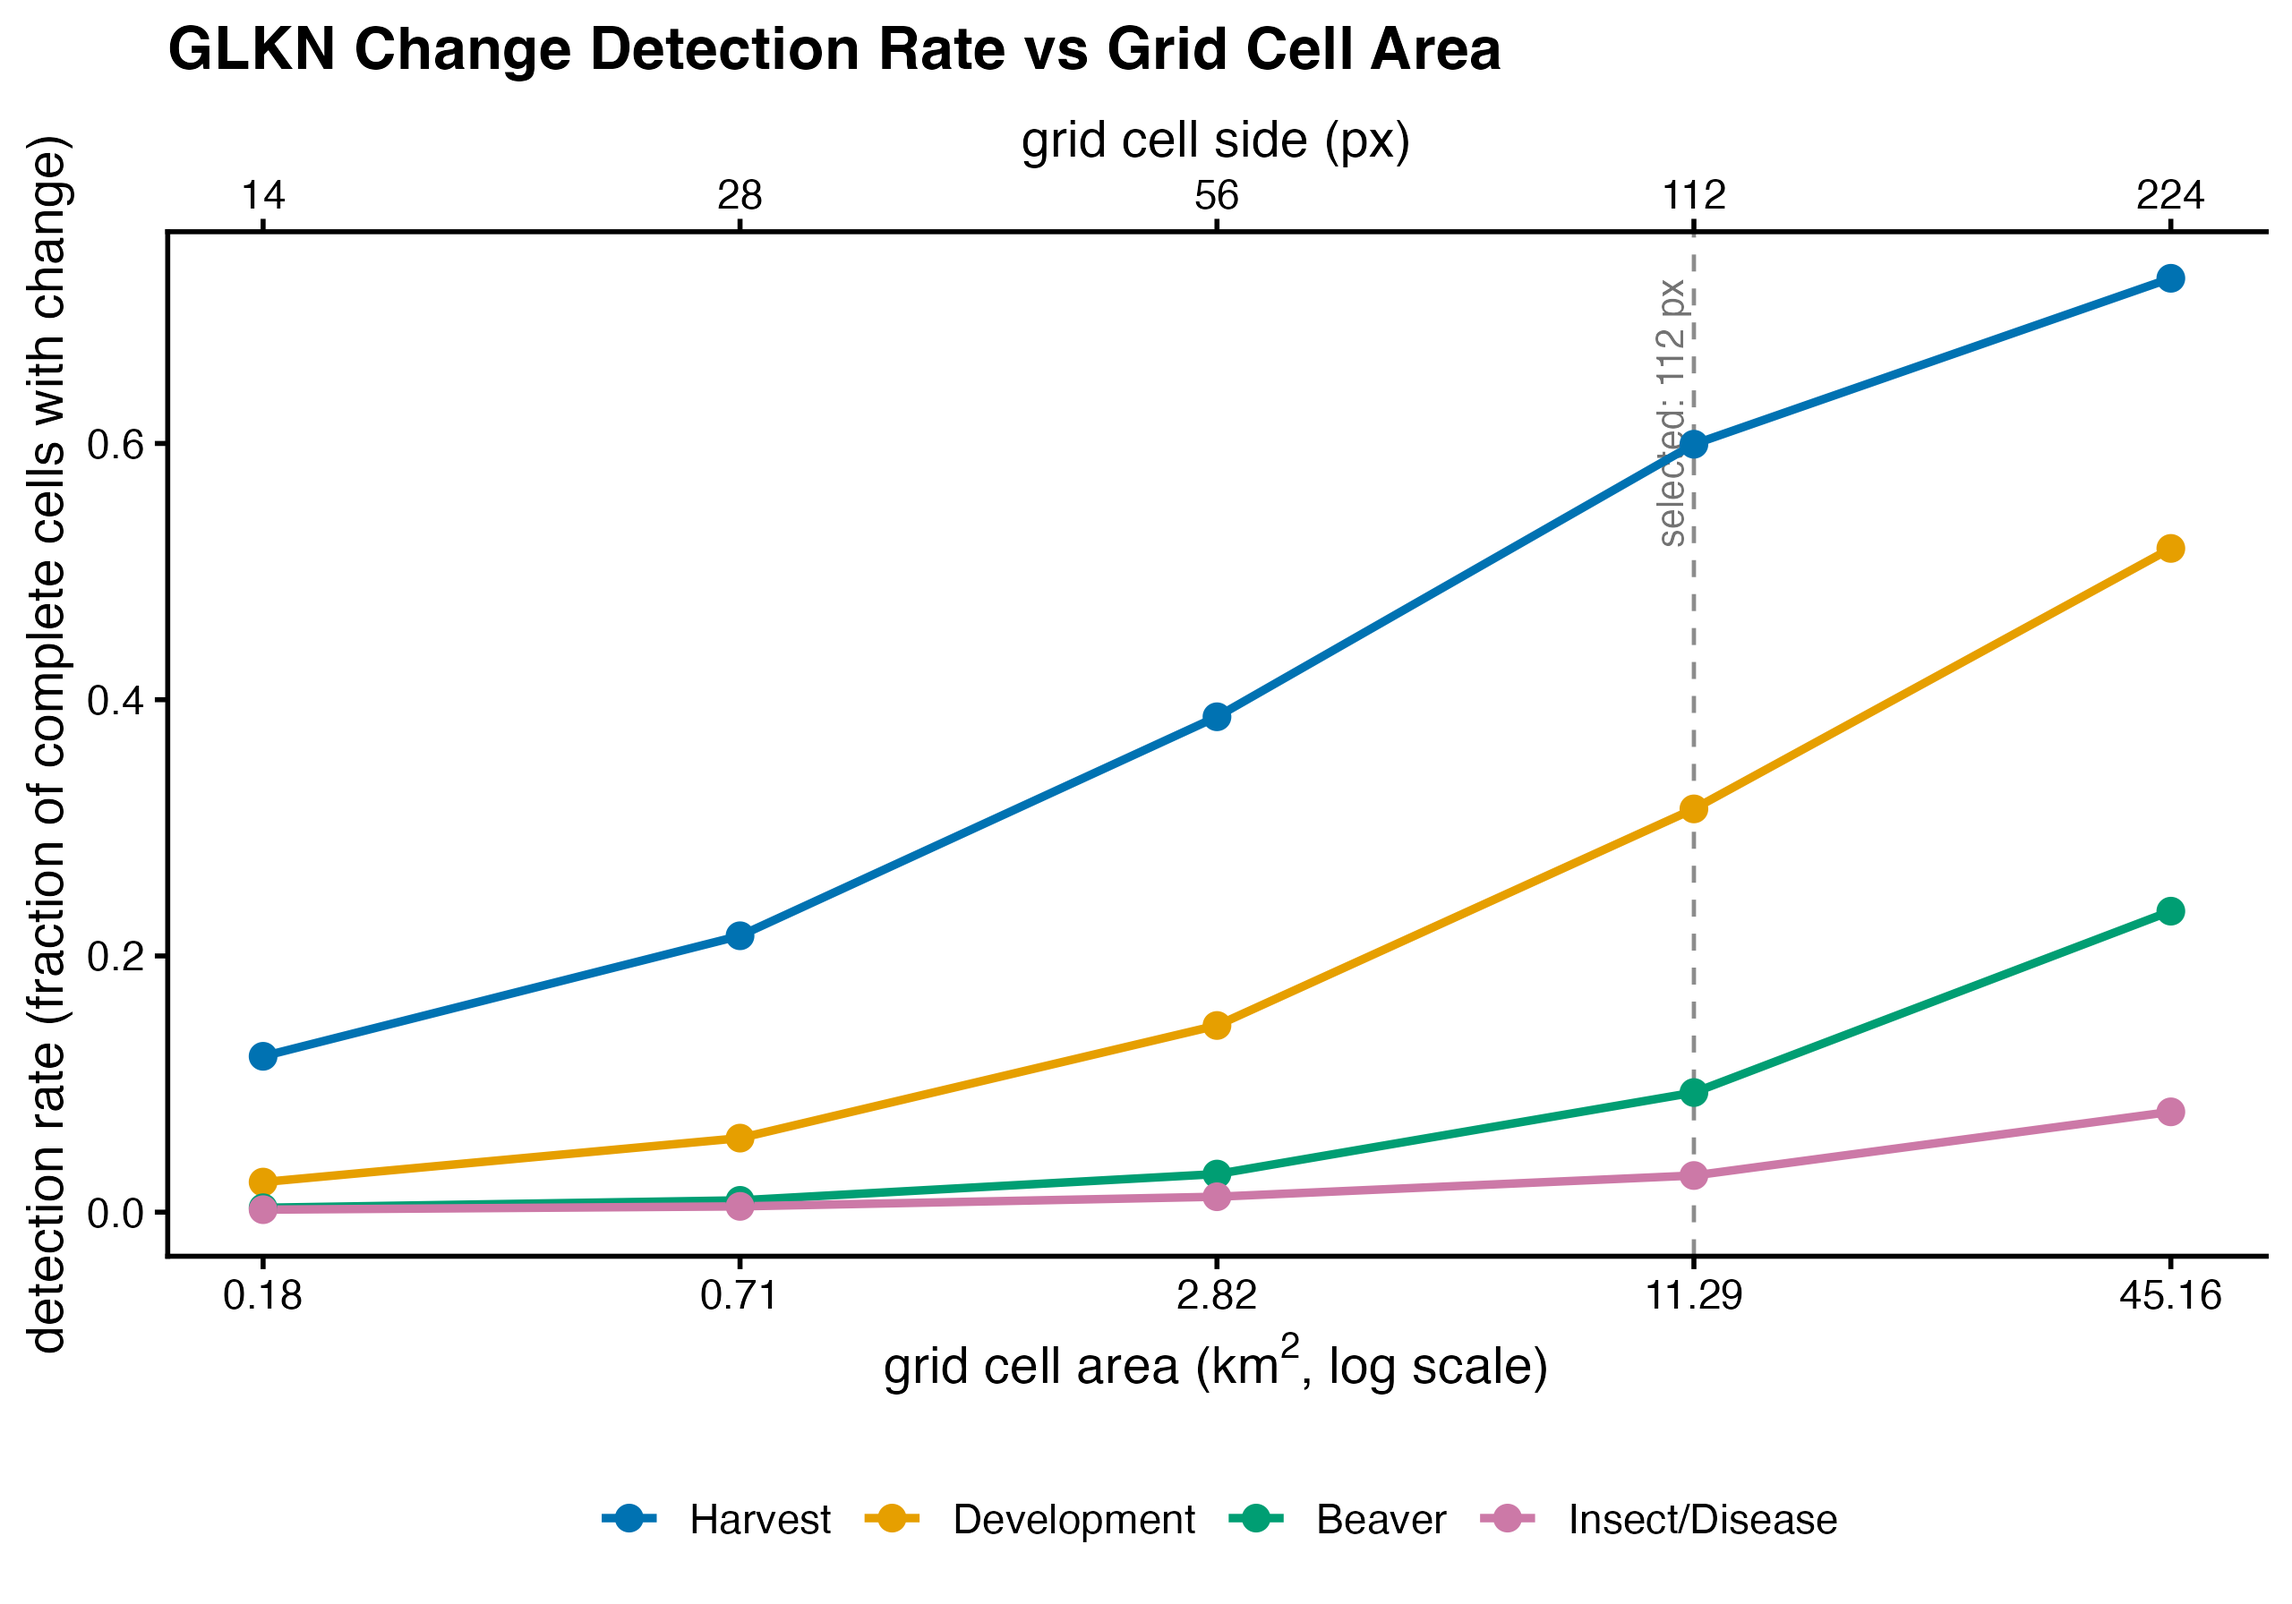
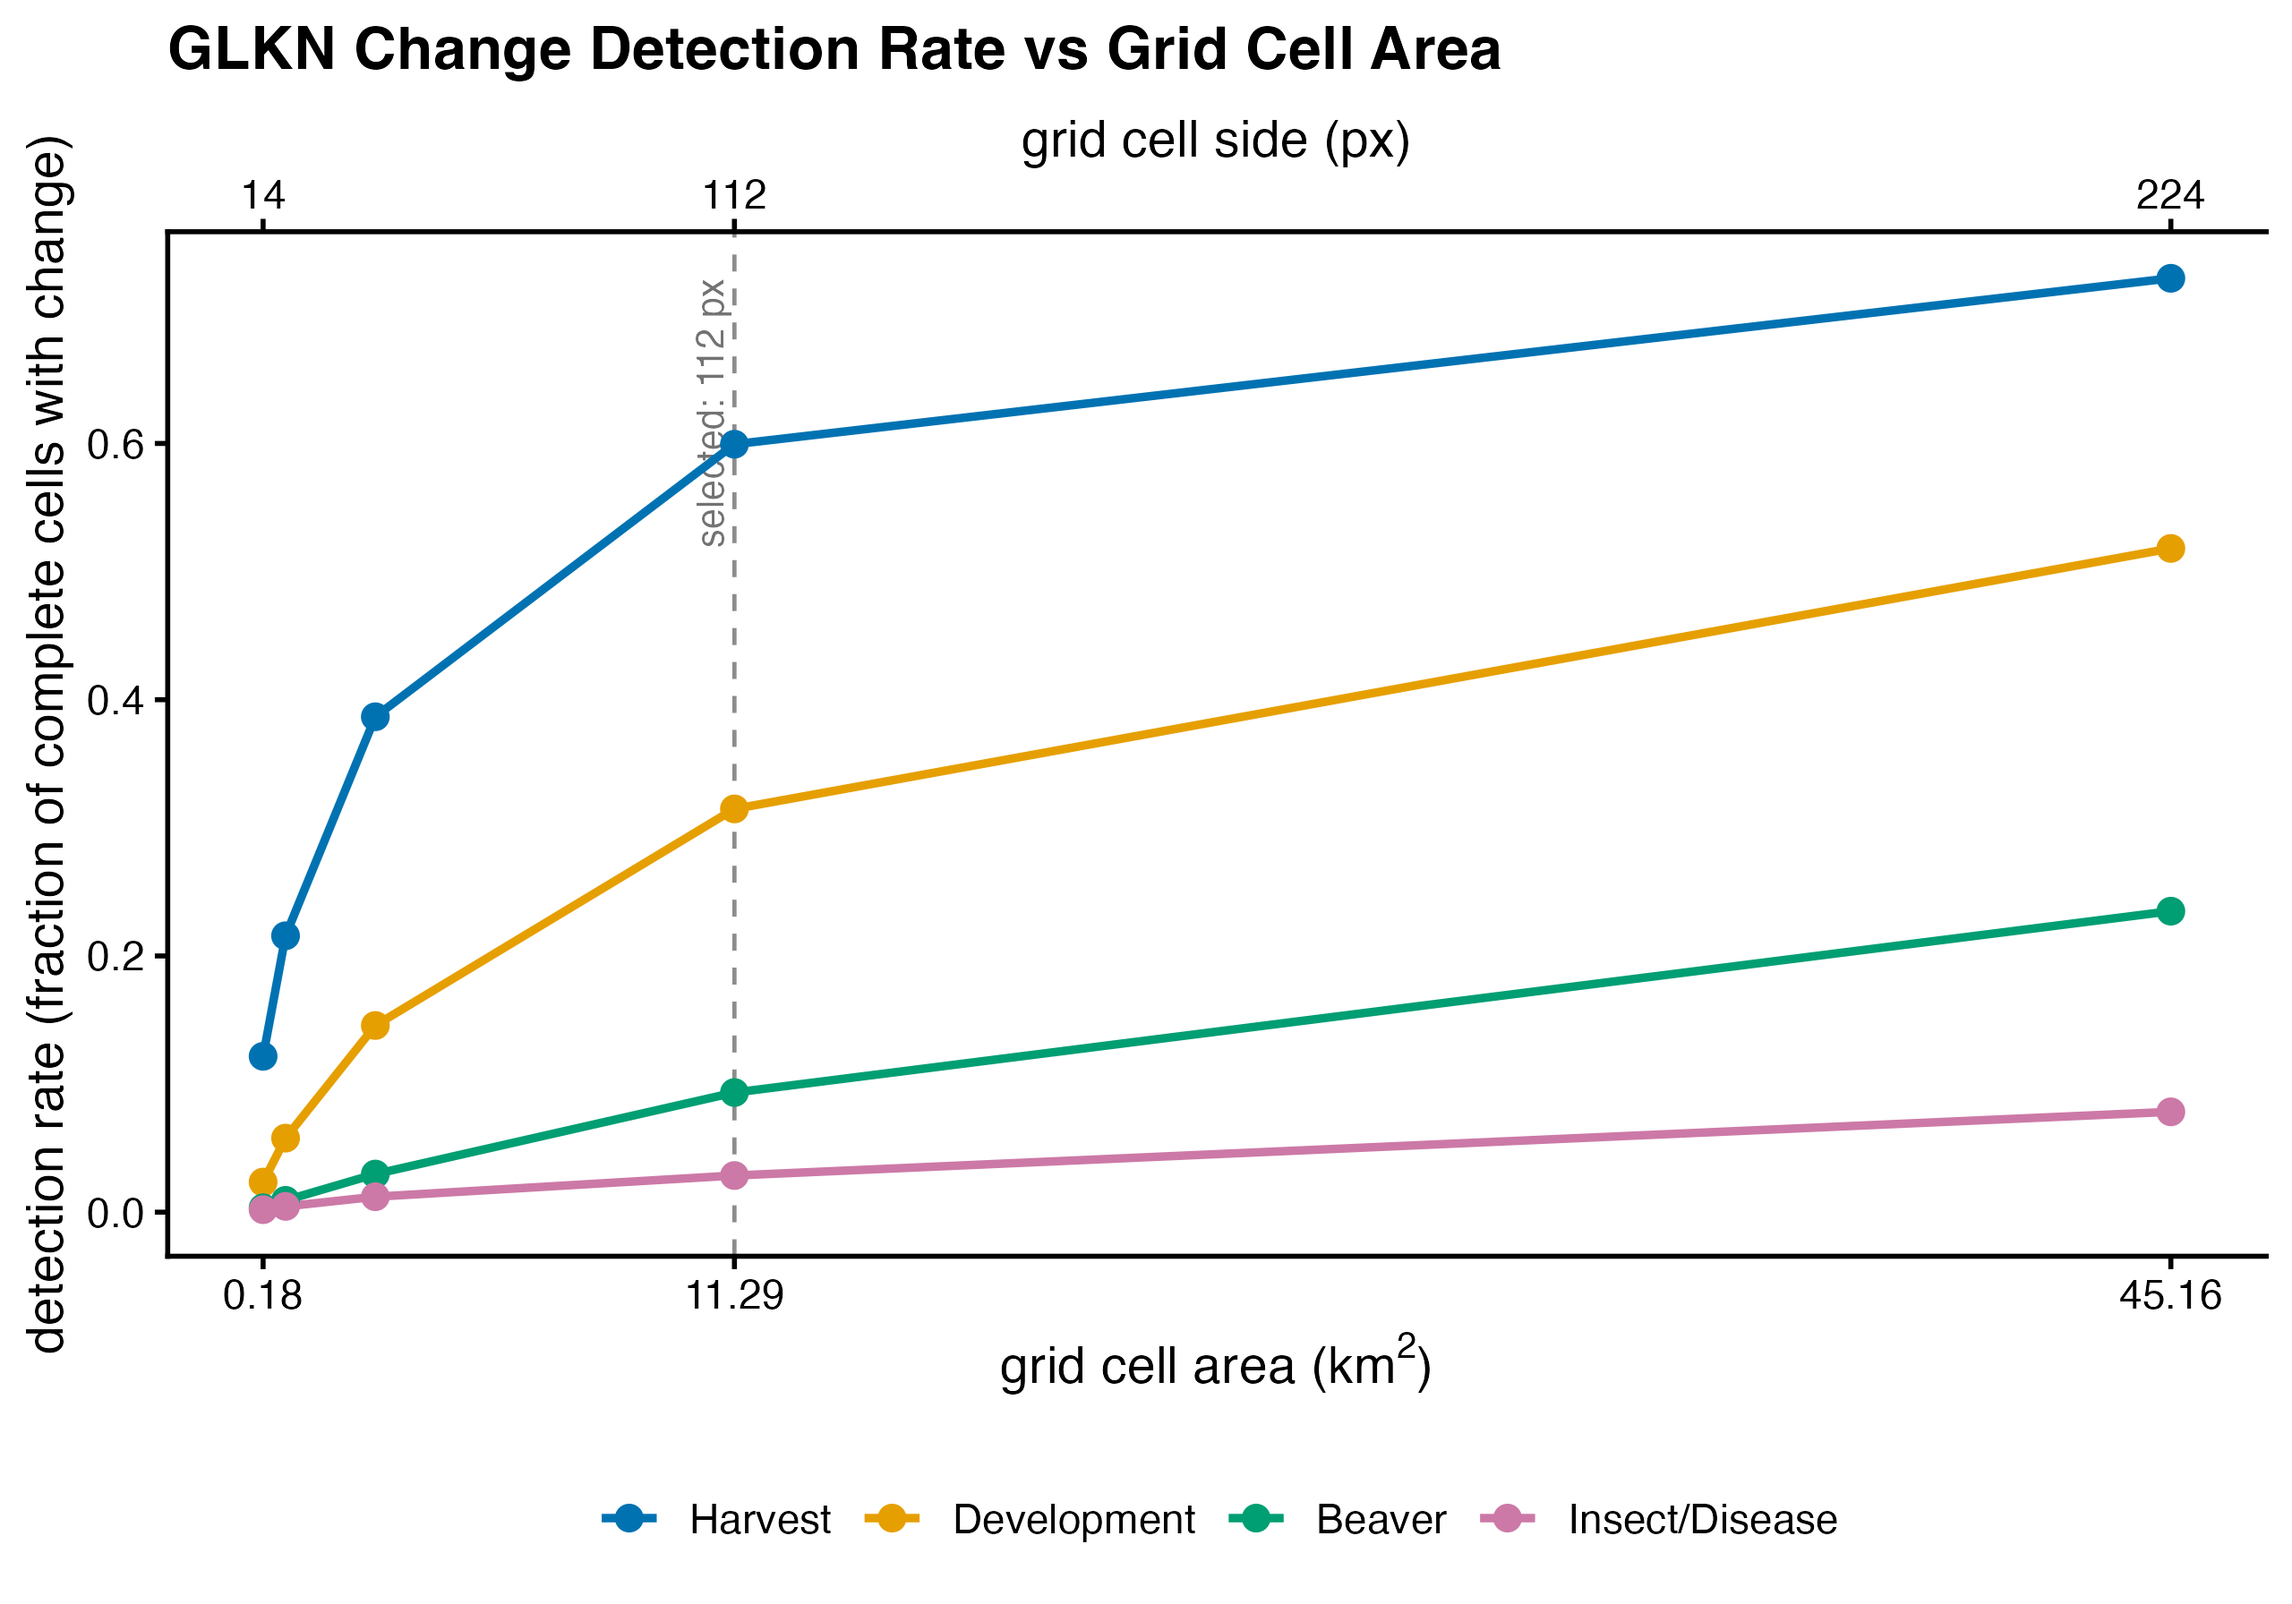
Use the linear-axis detection-rate figures for Figure 3.2a and 3.2b
Repoint Figure 3.2 panels a and b to the linear-axis versions
(change_detection_rate_vs_cell_area_{combined,by_agent}_linear) instead of the
log-scale versions, and note the linear axis in the captions and report.

diff --git a/scripts/build_chapter3_named_figures.py b/scripts/build_chapter3_named_figures.py
@@ -50,8 +50,9 @@ copy(f"{AB}/design_effect_vs_W.png", "figure_3_8_design_effect_vs_W.png")
 copy(f"{AB}/class_absence.png", "figure_3_9_class_absence.png")
 
 # ---- figure 3.2: two-panel, flagged for manual assembly (copy panels a and b) ----
-copy_png_pdf(f"{C3}/change_detection_rate_vs_cell_area_combined", "figure_3_2a_detection_rate_combined")
-copy_png_pdf(f"{C3}/change_detection_rate_vs_cell_area_by_agent", "figure_3_2b_detection_rate_by_agent")
+# use the linear-axis versions, not the log-scale ones
+copy_png_pdf(f"{C3}/change_detection_rate_vs_cell_area_combined_linear", "figure_3_2a_detection_rate_combined")
+copy_png_pdf(f"{C3}/change_detection_rate_vs_cell_area_by_agent_linear", "figure_3_2b_detection_rate_by_agent")
 
 # ---- figure 3.4: three-panel, flagged for manual assembly (copy panels a, b, and c) ----
 copy(f"{IA}/class_disagreement_top.png", "figure_3_4a_contested_class_pairs.png")
@@ -146,8 +147,9 @@ MAIN_ORDER = [
     ("3.1", ["figure_3_1_polygon_size_distribution.png (vector: .pdf)"], ""),
     ("3.2", ["figure_3_2a_detection_rate_combined.png (vector: .pdf)",
              "figure_3_2b_detection_rate_by_agent.png (vector: .pdf)"],
-     " Two-panel figure: panel a is the combined-axes view, and panel b is the per-agent facets. "
-     "The panels need manual assembly into one figure; they are not auto-composited."),
+     " Two-panel figure using the linear-axis versions: panel a is the combined-axes view, and panel "
+     "b is the per-agent facets. The panels need manual assembly into one figure; they are not "
+     "auto-composited."),
     ("3.3", ["figure_3_3_agreement_forest_5class.png"], ""),
     ("3.4", ["figure_3_4a_contested_class_pairs.png", "figure_3_4b_area_ecdf.png",
              "figure_3_4c_shape_index_ecdf.png"],
@@ -188,8 +190,8 @@ for src, dst in copies:
     lines.append(f"- `{src}` -> `manuscript_formatting/figures/{dst}`")
 lines.append("")
 lines.append("### Combine decisions\n")
-lines.append("- Figure 3.2: FLAGGED for manual assembly. Copied as two panels, "
-             "`figure_3_2a_detection_rate_combined.png` (combined-axes view) and "
+lines.append("- Figure 3.2: FLAGGED for manual assembly. Copied as two panels from the linear-axis "
+             "versions, `figure_3_2a_detection_rate_combined.png` (combined-axes view) and "
              "`figure_3_2b_detection_rate_by_agent.png` (per-agent facets). Not auto-composited, since "
              "the two source figures carry their own titles and axes and a clean single figure needs "
              "panel relabeling. Assemble manually as panels a and b under one caption.")

diff --git a/manuscript_formatting/figures/chapter3_captions.md b/manuscript_formatting/figures/chapter3_captions.md
@@ -12,7 +12,7 @@ Distribution of GLKN change-polygon area by agent (log hectare axis), within the
 ### Figure 3.2
 Files: figure_3_2a_detection_rate_combined.png (vector: .pdf); figure_3_2b_detection_rate_by_agent.png (vector: .pdf)
 
-Change detection rate as a function of grid cell area, by agent, within the seven watersheds. The selected 112 px cell (11.29 km2) is marked. Detection rate increases with cell area for every agent, but harvest and development are detected far more often than beaver and insect and disease at every scale. Two-panel figure: panel a is the combined-axes view, and panel b is the per-agent facets. The panels need manual assembly into one figure; they are not auto-composited.
+Change detection rate as a function of grid cell area, by agent, within the seven watersheds. The selected 112 px cell (11.29 km2) is marked. Detection rate increases with cell area for every agent, but harvest and development are detected far more often than beaver and insect and disease at every scale. Two-panel figure using the linear-axis versions: panel a is the combined-axes view, and panel b is the per-agent facets. The panels need manual assembly into one figure; they are not auto-composited.
 
 ### Figure 3.3
 File: figure_3_3_agreement_forest_5class.png
@@ -82,10 +82,10 @@ Provisional supplementary set; a final renumber pass will assign S numbers.
 - `reports/Case_ABCD_sampling/sd_vs_n_OA.png` -> `manuscript_formatting/figures/figure_3_7_sd_vs_n.png`
 - `reports/Case_ABCD_sampling/design_effect_vs_W.png` -> `manuscript_formatting/figures/figure_3_8_design_effect_vs_W.png`
 - `reports/Case_ABCD_sampling/class_absence.png` -> `manuscript_formatting/figures/figure_3_9_class_absence.png`
-- `manuscript_formatting/chapter_3/figures/change_detection_rate_vs_cell_area_combined.png` -> `manuscript_formatting/figures/figure_3_2a_detection_rate_combined.png`
-- `manuscript_formatting/chapter_3/figures/change_detection_rate_vs_cell_area_combined.pdf` -> `manuscript_formatting/figures/figure_3_2a_detection_rate_combined.pdf`
-- `manuscript_formatting/chapter_3/figures/change_detection_rate_vs_cell_area_by_agent.png` -> `manuscript_formatting/figures/figure_3_2b_detection_rate_by_agent.png`
-- `manuscript_formatting/chapter_3/figures/change_detection_rate_vs_cell_area_by_agent.pdf` -> `manuscript_formatting/figures/figure_3_2b_detection_rate_by_agent.pdf`
+- `manuscript_formatting/chapter_3/figures/change_detection_rate_vs_cell_area_combined_linear.png` -> `manuscript_formatting/figures/figure_3_2a_detection_rate_combined.png`
+- `manuscript_formatting/chapter_3/figures/change_detection_rate_vs_cell_area_combined_linear.pdf` -> `manuscript_formatting/figures/figure_3_2a_detection_rate_combined.pdf`
+- `manuscript_formatting/chapter_3/figures/change_detection_rate_vs_cell_area_by_agent_linear.png` -> `manuscript_formatting/figures/figure_3_2b_detection_rate_by_agent.png`
+- `manuscript_formatting/chapter_3/figures/change_detection_rate_vs_cell_area_by_agent_linear.pdf` -> `manuscript_formatting/figures/figure_3_2b_detection_rate_by_agent.pdf`
 - `reports/interpreter_agreement/class_disagreement_top.png` -> `manuscript_formatting/figures/figure_3_4a_contested_class_pairs.png`
 - `reports/interpreter_agreement/geometry/area_ecdf_focus.png` -> `manuscript_formatting/figures/figure_3_4b_area_ecdf.png`
 - `reports/interpreter_agreement/geometry/shape_index_area_weighted_ecdf.png` -> `manuscript_formatting/figures/figure_3_4c_shape_index_ecdf.png`
@@ -108,7 +108,7 @@ Provisional supplementary set; a final renumber pass will assign S numbers.
 
 ### Combine decisions
 
-- Figure 3.2: FLAGGED for manual assembly. Copied as two panels, `figure_3_2a_detection_rate_combined.png` (combined-axes view) and `figure_3_2b_detection_rate_by_agent.png` (per-agent facets). Not auto-composited, since the two source figures carry their own titles and axes and a clean single figure needs panel relabeling. Assemble manually as panels a and b under one caption.
+- Figure 3.2: FLAGGED for manual assembly. Copied as two panels from the linear-axis versions, `figure_3_2a_detection_rate_combined.png` (combined-axes view) and `figure_3_2b_detection_rate_by_agent.png` (per-agent facets). Not auto-composited, since the two source figures carry their own titles and axes and a clean single figure needs panel relabeling. Assemble manually as panels a and b under one caption.
 - Figure 3.4: FLAGGED for manual assembly. Copied as three panels, `figure_3_4a_contested_class_pairs.png`, `figure_3_4b_area_ecdf.png`, and `figure_3_4c_shape_index_ecdf.png`. Not auto-composited, for the same reason. Assemble manually as panels a, b, and c under one caption.
 
 ### Supplementary figures (source -> destination)
